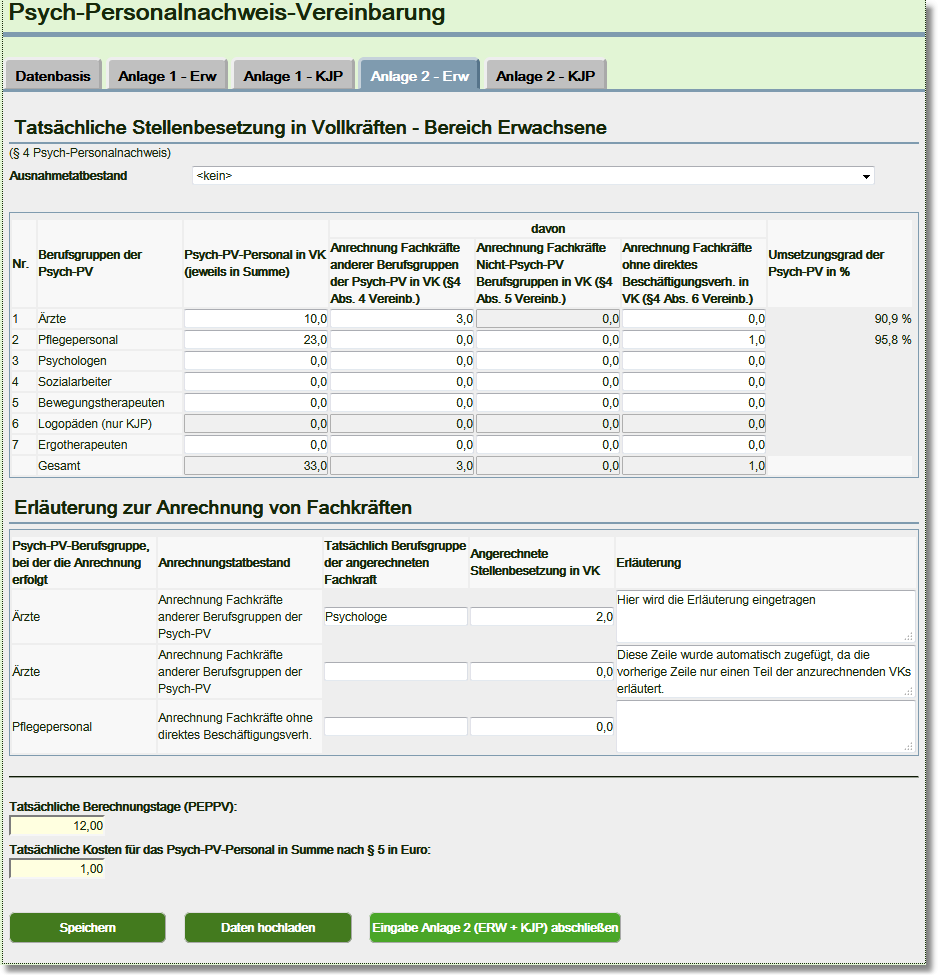
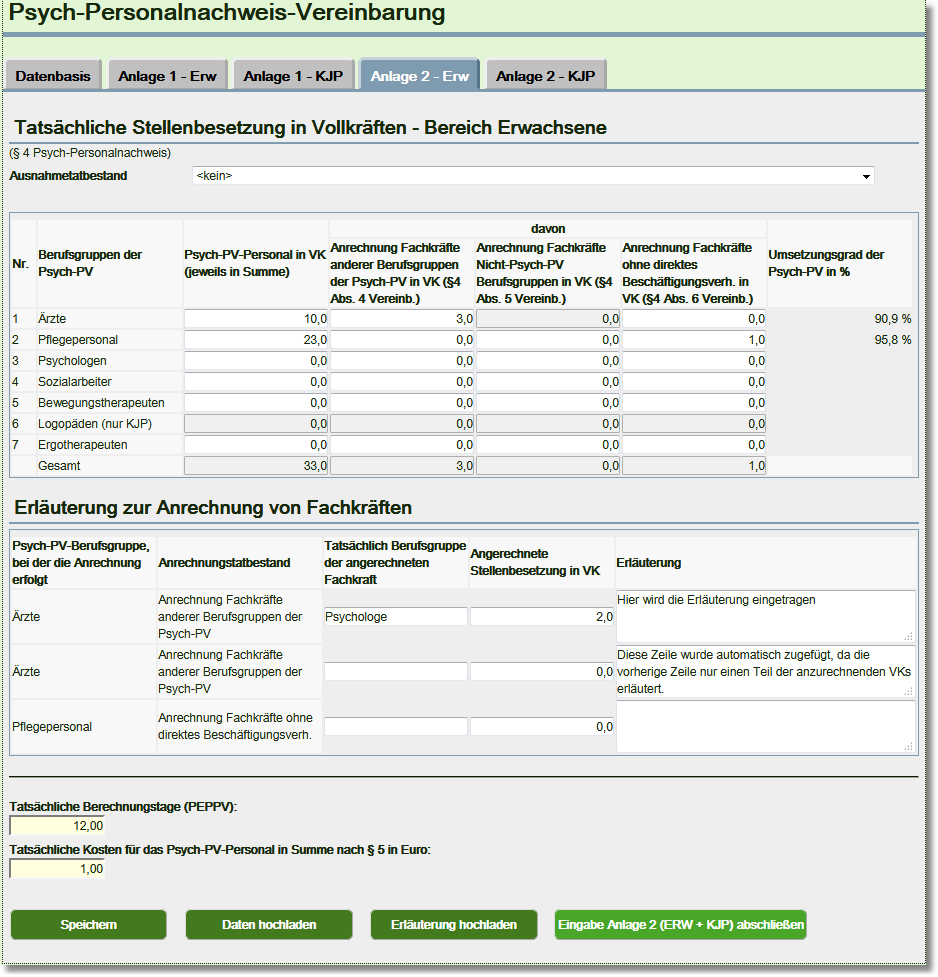
psychStaff: import apx 2

Changed region(s): [[0.0, 0.9212, 0.8657, 0.9826]]

diff --git a/DataPortal/src/main/java/org/inek/dataportal/feature/psychstaff/backingbean/PsychStaffImporter.java b/DataPortal/src/main/java/org/inek/dataportal/feature/psychstaff/backingbean/PsychStaffImporter.java
@@ -11,9 +11,11 @@ import java.util.Scanner;
 import java.util.logging.Level;
 import java.util.logging.Logger;
 import javax.servlet.http.Part;
+import org.inek.dataportal.feature.psychstaff.entity.OccupationalCategory;
 import org.inek.dataportal.feature.psychstaff.entity.StaffProof;
 import org.inek.dataportal.feature.psychstaff.entity.StaffProofAgreed;
 import org.inek.dataportal.feature.psychstaff.entity.StaffProofEffective;
+import org.inek.dataportal.feature.psychstaff.entity.StaffProofExplanation;
 import org.inek.dataportal.feature.psychstaff.enums.PsychType;
 import org.inek.dataportal.helper.Utils;
 import org.inek.dataportal.utils.StringUtil;
@@ -59,17 +61,21 @@ public class PsychStaffImporter {
         if (PsychType.getTypeFromShortName(data[0]) != type) {
             throw new IllegalArgumentException("Unzulässige Bereichskennung. Erwartet: " + type.getShortName());
         }
-        int number = Integer.parseInt(data[1]);
-        if (number < 1 || number > 7) {
+        int occupationalCategoryId = Integer.parseInt(data[1]);
+        if (occupationalCategoryId < 1 || occupationalCategoryId > 7) {
             throw new IllegalArgumentException("Die laufende Nummer der Berufsgruppe muss zwischen 1 und 7 liegen");
         }
-        if (number == 6 && type == PsychType.Adults){
+        if (occupationalCategoryId == 6 && type == PsychType.Adults){
             throw new IllegalArgumentException("Die laufende Nummer 6 (Logopädie) ist nur bei KJP zulässig");
         }
         double staffingComplete = StringUtil.parseLocalizedDouble(data[2]);
         double staffingBudget = StringUtil.parseLocalizedDouble(data[3]);
         double avgCosts = StringUtil.parseLocalizedDouble(data[4]);
-        StaffProofAgreed staffProofAgreed = staffProofsAgreed.stream().filter(a -> a.getOccupationalCategoryId() == number).findFirst().get();
+        StaffProofAgreed staffProofAgreed = staffProofsAgreed
+                .stream()
+                .filter(a -> a.getOccupationalCategoryId() == occupationalCategoryId)
+                .findFirst()
+                .get();
         staffProofAgreed.setStaffingComplete(staffingComplete);
         staffProofAgreed.setStaffingBudget(staffingBudget);
         staffProofAgreed.setAvgCost(avgCosts);
@@ -87,7 +93,7 @@ public class PsychStaffImporter {
             while (scanner.hasNextLine()) {
                 count++;
                 String line = Utils.convertFromUtf8(scanner.nextLine());
-                if (!line.contains("Bereich;Nummer;Absatz;Berufsgruppe;VK;Erlaeuterung")) {
+                if (!line.contains("Bereich;Nummer;StellenVollstaendig;AnrechPsy;AnrechNonPsy;AnrechSonstig")) {
                     try {
                         importEffectiveLine(staffProofsEffective, type, line);
                     } catch (Exception ex) {
@@ -110,26 +116,96 @@ public class PsychStaffImporter {
         if (PsychType.getTypeFromShortName(data[0]) != type) {
             throw new IllegalArgumentException("Unzulässige Bereichskennung. Erwartet: " + type.getShortName());
         }
-        int number = Integer.parseInt(data[1]);
-        if (number < 1 || number > 7) {
+        int occupationalCategoryId = Integer.parseInt(data[1]);
+        if (occupationalCategoryId < 1 || occupationalCategoryId > 7) {
             throw new IllegalArgumentException("Die laufende Nummer der Berufsgruppe muss zwischen 1 und 7 liegen");
         }
-        if (number == 6 && type == PsychType.Adults){
+        if (occupationalCategoryId == 6 && type == PsychType.Adults){
             throw new IllegalArgumentException("Die laufende Nummer 6 (Logopädie) ist nur bei KJP zulässig");
         }
         double staffingComplete = StringUtil.parseLocalizedDouble(data[2]);
         double deductionPsych = StringUtil.parseLocalizedDouble(data[3]);
-        double deductionNonPsych = number == 1 ? 0d : StringUtil.parseLocalizedDouble(data[4]);
+        double deductionNonPsych = occupationalCategoryId == 1 ? 0d : StringUtil.parseLocalizedDouble(data[4]);
         double deductionOther = StringUtil.parseLocalizedDouble(data[5]);
         StaffProofEffective staffProofEffective = staffProofsEffective
                 .stream()
-                .filter(a -> a.getOccupationalCategoryId() == number)
+                .filter(a -> a.getOccupationalCategoryId() == occupationalCategoryId)
                 .findFirst()
                 .get();
         staffProofEffective.setStaffingComplete(staffingComplete);
         staffProofEffective.setStaffingDeductionPsych(deductionPsych);
         staffProofEffective.setStaffingDeductionNonPsych(deductionNonPsych);
         staffProofEffective.setStaffingDeductionOther(deductionOther);
+    }
+
+    public static String importExplanation(Part file, StaffProof staffProof, PsychType type) {
+        String msg = "";
+        int count = 0;
+        try {
+            Scanner scanner = new Scanner(file.getInputStream());
+            if (!scanner.hasNextLine()) {
+                return "Nichts zu importieren";
+            }
+            while (scanner.hasNextLine()) {
+                count++;
+                String line = Utils.convertFromUtf8(scanner.nextLine());
+                if (!line.contains("Bereich;Nummer;Absatz;Berufsgruppe;VK;Erlaeuterung")) {
+                    try {
+                        importExplanationLine(staffProof, type, line);
+                    } catch (Exception ex) {
+                        msg += "Fehler in Zeile " + count + ": " + ex.getMessage() + "\r\n";
+                    }
+                }
+            }
+        } catch (IOException ex) {
+            Logger.getLogger(PsychStaffImporter.class.getName()).log(Level.SEVERE, null, ex);
+        }
+        msg += "Ingesamt wurden " + count + " Zeilen gelesen";
+        return msg;
+    }
+
+    private static void importExplanationLine(StaffProof staffProof, PsychType type, String line) {
+        String[] data = StringUtil.splitAtUnquotedSemicolon(line);
+        if (data.length != 6) {
+            throw new IllegalArgumentException(Utils.getMessage("msgWrongElementCount"));
+        }
+        if (PsychType.getTypeFromShortName(data[0]) != type) {
+            throw new IllegalArgumentException("Unzulässige Bereichskennung. Erwartet: " + type.getShortName());
+        }
+        int occupationalCategoryId = Integer.parseInt(data[1]);
+        if (occupationalCategoryId < 1 || occupationalCategoryId > 7) {
+            throw new IllegalArgumentException("Die laufende Nummer der Berufsgruppe muss zwischen 1 und 7 liegen");
+        }
+        if (occupationalCategoryId == 6 && type == PsychType.Adults){
+            throw new IllegalArgumentException("Die laufende Nummer 6 (Logopädie) ist nur bei KJP zulässig");
+        }
+        OccupationalCategory occupationalCategory = obtainOccupationalCategory(staffProof, type, occupationalCategoryId);
+        int paragraph = Integer.parseInt(data[2]);
+        if (paragraph < 4 || paragraph > 6) {
+            throw new IllegalArgumentException("Der Absatz muss zwischen 4 und 6 liegen");
+        }
+        double staffing = StringUtil.parseLocalizedDouble(data[4]);
+        StaffProofExplanation explanation = new StaffProofExplanation();
+        explanation.setStaffProofMasterId(staffProof.getId());
+        explanation.setPsychType(type);
+        explanation.setOccupationalCategory(occupationalCategory);
+        explanation.setDeductedSpecialistId(paragraph);
+        explanation.setEffectiveOccupationalCategory(data[3]);
+        explanation.setDeductedFullVigor(staffing);
+        explanation.setExplanation(data[5]);
+        staffProof.addStaffProofExplanation(explanation);
+    }
+
+    private static OccupationalCategory obtainOccupationalCategory(StaffProof staffProof, PsychType type, int occupationalCategoryId) {
+        // get the appropriate OccupationalCategory from the data
+        // this eliminates the need for accessing the database here
+        OccupationalCategory occupationalCategory = staffProof
+                .getStaffProofsEffective(type)
+                .stream().filter(e -> e.getOccupationalCategory().getId() == occupationalCategoryId)
+                .findAny()
+                .get()
+                .getOccupationalCategory();
+        return occupationalCategory;
     }
 
 }

diff --git a/DataPortal/src/main/java/org/inek/dataportal/feature/psychstaff/backingbean/EditPsyStaff.java b/DataPortal/src/main/java/org/inek/dataportal/feature/psychstaff/backingbean/EditPsyStaff.java
@@ -61,10 +61,10 @@ public class EditPsyStaff extends AbstractEditController implements Serializable
     // <editor-fold defaultstate="collapsed" desc="fields & enums">
     private static final Logger LOGGER = Logger.getLogger("EditPsyStaff");
     private static final String TOPIC_BASE = "topicBaseData";
-    private static final String TOPIC_KIDS2 = "topicAppendix2Kids";
-    private static final String TOPIC_ADULTS2 = "topicAppendix2Adults";
-    private static final String TOPIC_KIDS1 = "topicAppendix1Kids";
     private static final String TOPIC_ADULTS1 = "topicAppendix1Adults";
+    private static final String TOPIC_KIDS1 = "topicAppendix1Kids";
+    private static final String TOPIC_ADULTS2 = "topicAppendix2Adults";
+    private static final String TOPIC_KIDS2 = "topicAppendix2Kids";
 
     @Inject private CooperationTools _cooperationTools;
     @Inject private SessionController _sessionController;
@@ -702,6 +702,32 @@ public class EditPsyStaff extends AbstractEditController implements Serializable
                 break;
             case TOPIC_KIDS2:
                 msg = PsychStaffImporter.importEffective(_file, _staffProof, PsychType.Kids);
+                break;
+            default:
+                return;
+        }
+
+        _sessionController.alertClient(msg);
+    }
+
+    public void importExplanation() {
+        if (_file == null) {
+            return;
+        }
+
+        String msg = "";
+        switch (getActiveTopicKey()) {
+            case TOPIC_BASE:
+                return;
+            case TOPIC_ADULTS1:
+                return;
+            case TOPIC_KIDS1:
+                return;
+            case TOPIC_ADULTS2:
+                msg = PsychStaffImporter.importExplanation(_file, _staffProof, PsychType.Adults);
+                break;
+            case TOPIC_KIDS2:
+                msg = PsychStaffImporter.importExplanation(_file, _staffProof, PsychType.Kids);
                 break;
             default:
                 return;

diff --git a/DataPortal/src/main/java/org/inek/dataportal/feature/psychstaff/entity/StaffProof.java b/DataPortal/src/main/java/org/inek/dataportal/feature/psychstaff/entity/StaffProof.java
@@ -521,7 +521,9 @@ public class StaffProof implements Serializable, StatusEntity {
     /**
      * Add a StaffProofExplanation to the list
      *
-     * @param staffProofExplanation
+     * @param type
+     * @param occupationalCategory
+     * @param deductedSpecialistId
      * @return true, if the new element could be added; false if the element existed before
      */
     public boolean addMissingStaffProofExplanation(PsychType type, OccupationalCategory occupationalCategory, int deductedSpecialistId) {
@@ -530,12 +532,7 @@ public class StaffProof implements Serializable, StatusEntity {
                 && a.getDeductedSpecialistId() == deductedSpecialistId)) {
             return false;
         }
-        StaffProofExplanation explanation = new StaffProofExplanation();
-        explanation.setStaffProofMasterId(_id);
-        explanation.setPsychType(type);
-        explanation.setOccupationalCategory(occupationalCategory);
-        explanation.setDeductedSpecialistId(deductedSpecialistId);
-        _staffProofExplanation.add(explanation);
+        addStaffProofExplanation(type, occupationalCategory, deductedSpecialistId);
         return true;
     }
 
@@ -545,6 +542,11 @@ public class StaffProof implements Serializable, StatusEntity {
         explanation.setPsychType(type);
         explanation.setOccupationalCategory(occupationalCategory);
         explanation.setDeductedSpecialistId(deductedSpecialistId);
+        _staffProofExplanation.add(explanation);
+    }
+
+    public void addStaffProofExplanation(StaffProofExplanation explanation) {
+        explanation.setStaffProofMasterId(_id);
         _staffProofExplanation.add(explanation);
     }
 
